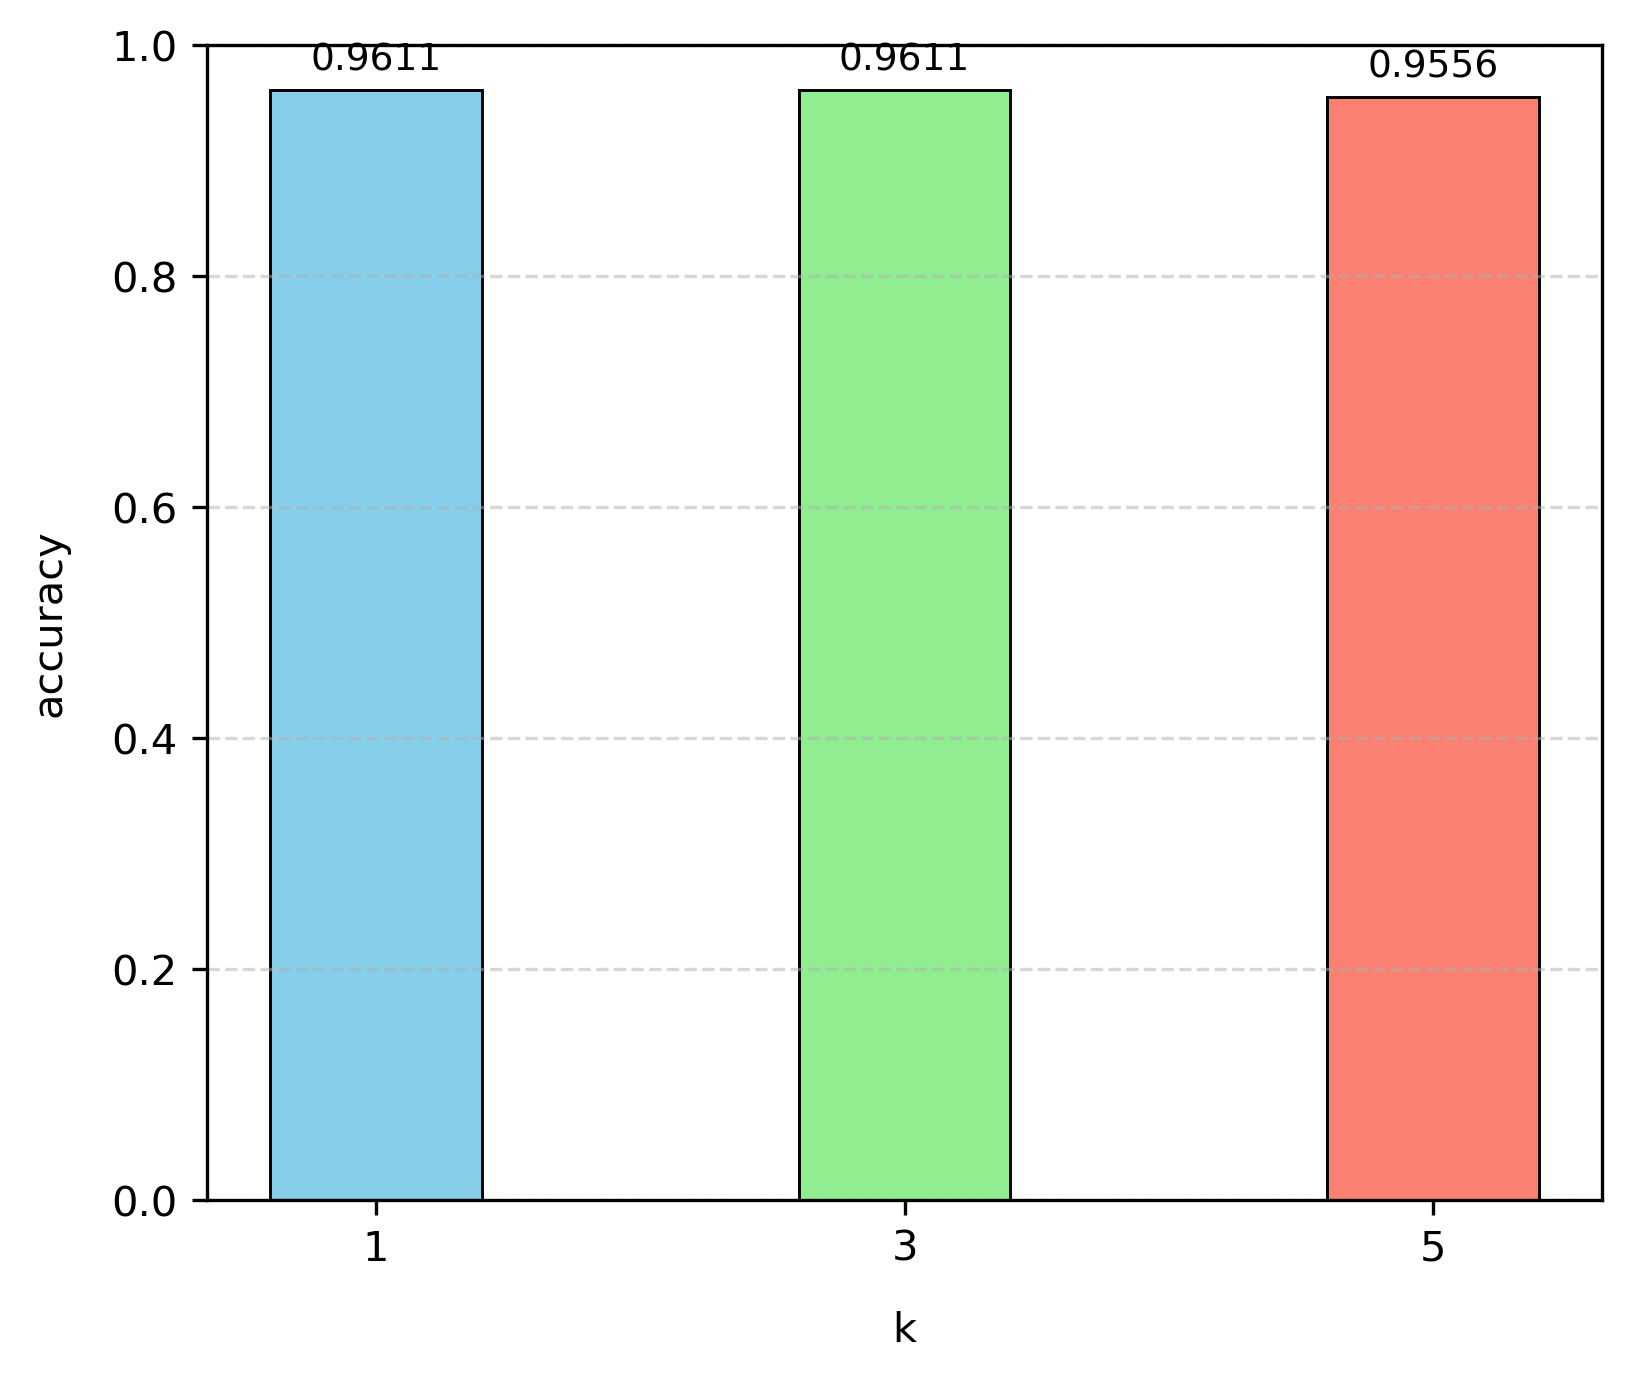
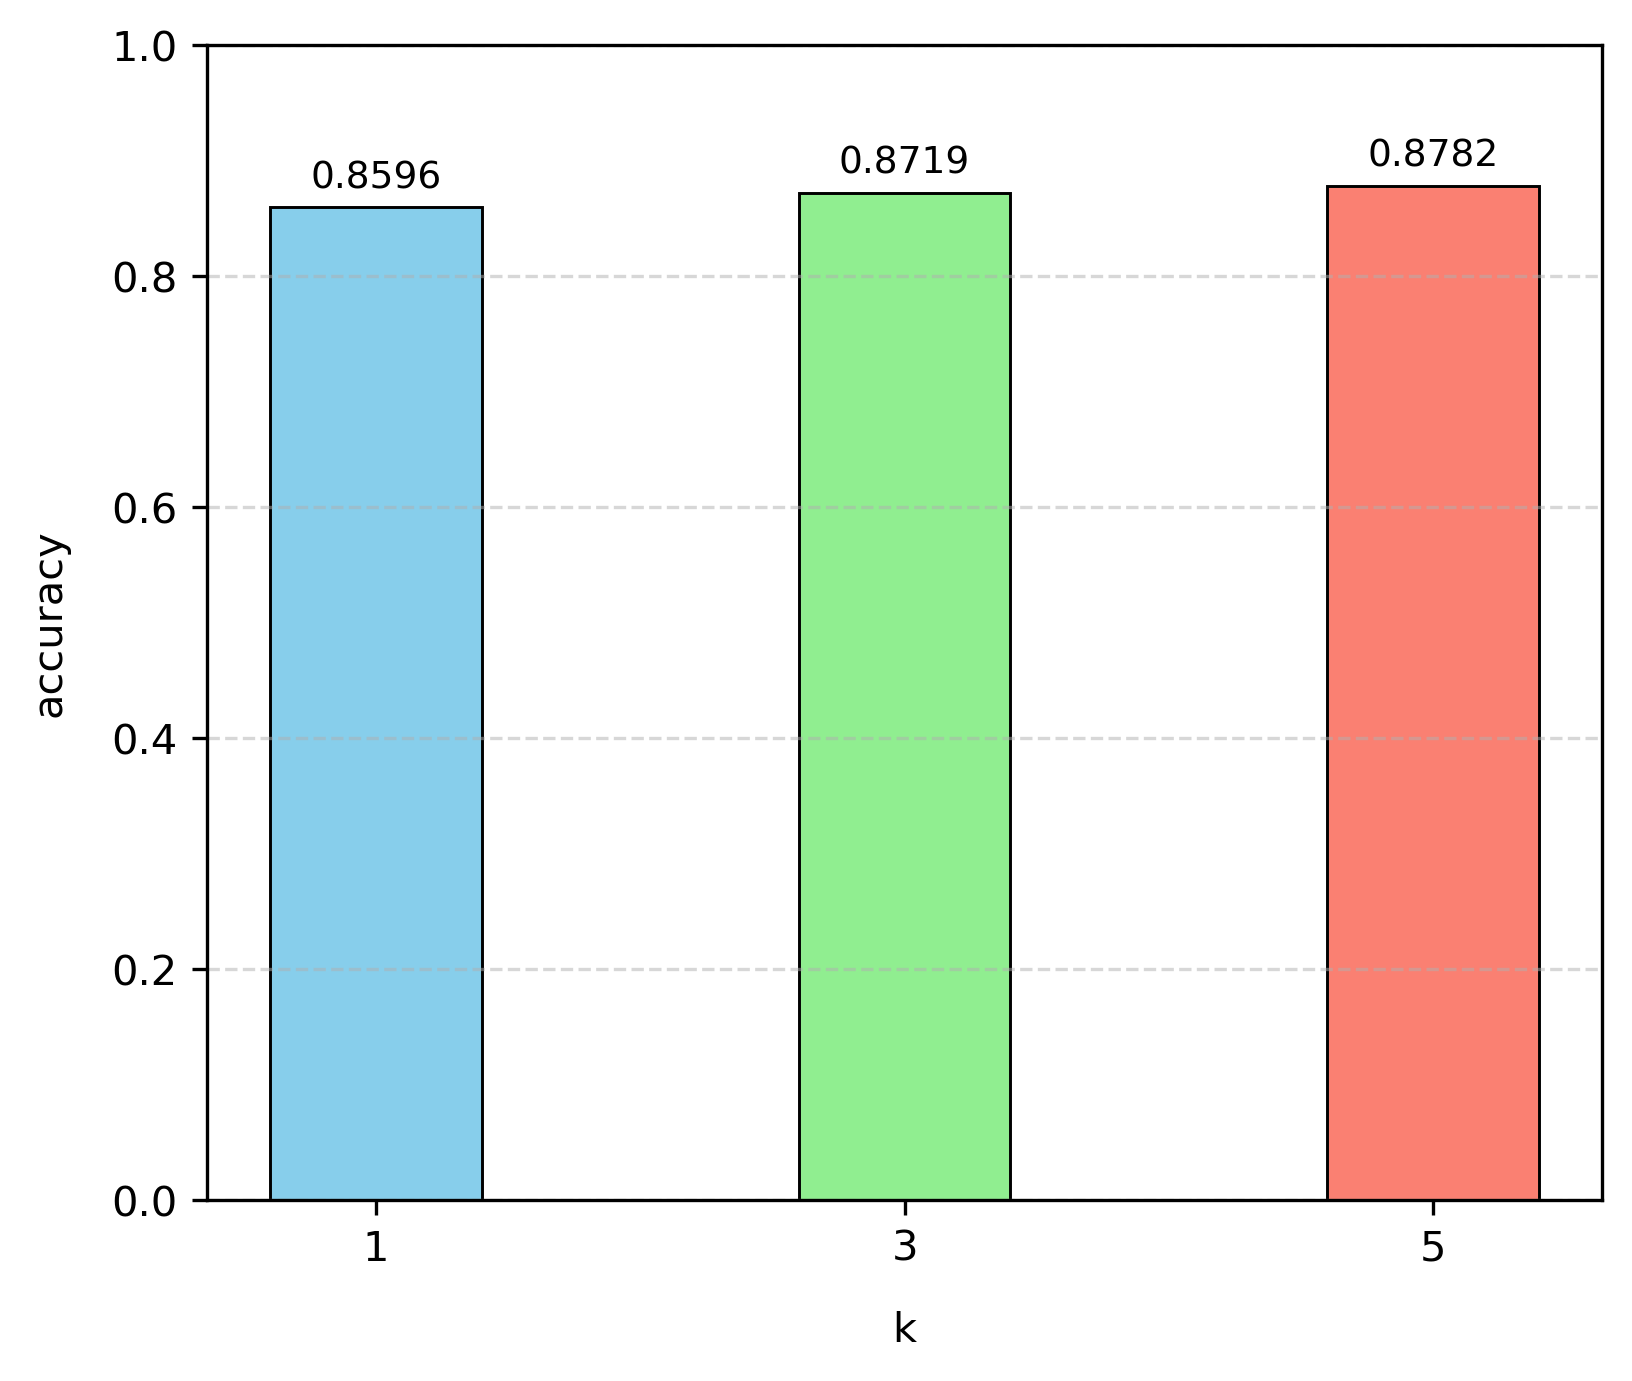
transfer the caculation to gpu

Changed region(s): [[0.4688, 0.0311, 0.625, 0.1557], [0.8125, 0.0311, 0.9688, 0.1557], [0.1562, 0.0311, 0.3125, 0.1557]]

diff --git a/KNN.py b/KNN.py
@@ -9,6 +9,10 @@ import torch
 from Dataset import MakeDataset
 import matplotlib.pyplot as plt
 import time
+import os
+
+os.environ["KMP_DUPLICATE_LIB_OK"] = "TRUE"
+device = torch.device("cuda:0" if torch.cuda.is_available() else "cpu")
 
 # 由于无训练参数，所以这里的KNN网络直接按类编写，不继承torch的类
 class KNN:
@@ -18,9 +22,8 @@ class KNN:
         self.pool = torch.nn.MaxPool2d(kernel_size=(2, 2))
 
     def preprocess(self, x):
-        # torch提供的太慢了
-        # x = self.pool(x)
-        # x = self.pool(x)
+        x = self.pool(x)
+        x = self.pool(x)
         # 将图片展平成一维
         return torch.flatten(x)
 
@@ -29,33 +32,65 @@ class KNN:
         result = [0, 0]
         # 遍历每个测试样本
         cnt = 1
+
+        #-------------------------------------------------------------------
+        # 提前将整个训练集加载进内存
+        train_data = []
+        train_labels = []
+        for i, data in enumerate(self.train_loader, 0):
+            input, label = data
+            input = self.preprocess(input)
+            train_data.append(input)
+            train_labels.append(label)
+        train_data = torch.stack(train_data)
+        train_labels = torch.tensor(train_labels)
+        # # 放到显存，利用显卡计算
+        train_data = train_data.to(device)
+        train_labels = train_labels.to(device)
+        #------------------------------------------------------------------
+
         for i_test, data_test in enumerate(self.test_loader, 0):
             # 打印测试信息
             print("第" + str(cnt) + "个测试样本")
             cnt += 1
-            # 分离图片和标签
+
             # 记录开始时间
             start_time = time.time()
 
+            # 分离图片和标签
             input_test, label_test = data_test
             input_test = self.preprocess(input_test)
+            # # 拿到显存
+            input_test = input_test.to(device)
+            label_test = label_test.to(device)
 
             # 存放前k个最相似的标签及对应的相似度
-            list = [(-1, 0)]
-            # 遍历每个训练样本
-            for j_train, data_train in enumerate(self.train_loader, 0):
-                input_train, label_train = data_train
-                input_train = self.preprocess(input_train)
-                # 计算当前样本与其的余弦相似度
-                cs = torch.cosine_similarity(input_test, input_train, dim=0)
-                # 将列表按相似度进行降序排序
-                list = sorted(list, key=lambda x: x[1], reverse=True)
-                # 判断当前样本是否可以入列表
-                if cs > list[-1][1]:
-                    if len(list) < k:
-                        list.append((label_train, cs))
-                    else:
-                        list[-1] = ((label_train, cs))
+            # list = [(-1, 0)]
+            list = []
+
+            # 计算测试样本与整个训练集的相似度
+            cs = torch.cosine_similarity(input_test, train_data, dim=1)
+            # 找出tok-k个相似的相似度和对应索引
+            values, indices = torch.topk(cs, k, 0)
+            # 放入列表
+            for i, j in zip(values, indices):
+                list.append((train_labels[j], i))
+
+            # # 遍历每个训练样本
+            # for j_train, data_train in enumerate(self.train_loader, 0):
+            #     input_train, label_train = data_train
+            #     input_train = self.preprocess(input_train)
+            #     # 计算当前样本与其的余弦相似度
+            #     cs = torch.cosine_similarity(input_test, input_train, dim=0)
+            #     # 将列表按相似度进行降序排序
+            #     list = sorted(list, key=lambda x: x[1], reverse=True)
+            #     # 判断当前样本是否可以入列表
+            #     if cs > list[-1][1]:
+            #         if len(list) < k:
+            #             list.append((label_train, cs))
+            #         else:
+            #             list[-1] = ((label_train, cs))
+
             # 将列表中数量最多的类赋给当前测试样本，并与实际标签进行比较
             dict = {}
             for i in range(len(list)):
@@ -73,6 +108,7 @@ class KNN:
             for i in range(len(dict)):
                 print(dict[i], end=" ")
             print("测试样本真实标签：" + str(int(label_test)))
+
             if dict[0][0] == int(label_test):
                 result[0] += 1
                 print("分类正确！")
@@ -88,9 +124,9 @@ if __name__ == '__main__':
     md = MakeDataset(1)
     md.make()
     # 选择训练集和测试集
-    train_loader = md.get_trainloader('D1')
+    train_loader = md.get_trainloader('D0')
     test_loader = md.get_testloader()
-    # test_loader = md.get_trainloader('D2')
+    # test_loader = md.get_trainloader('D3')
     # 对三种k 1、3、5进行测试
     knn = KNN(train_loader, test_loader)
     k_list = [1, 3, 5]

diff --git a/README.md b/README.md
@@ -8,4 +8,5 @@ HITWH25春季学期人工智能导论实验二<br>
 <li>封装好的数据增强类</li>
 <li>多场景比较测试</li>
 <li>丰富的图片输出</li>
+<li>几乎全部计算放在GPU上进行，以KNN为例，6w训练集+1w测试集可在10s左右测完</li>
 </ol>
